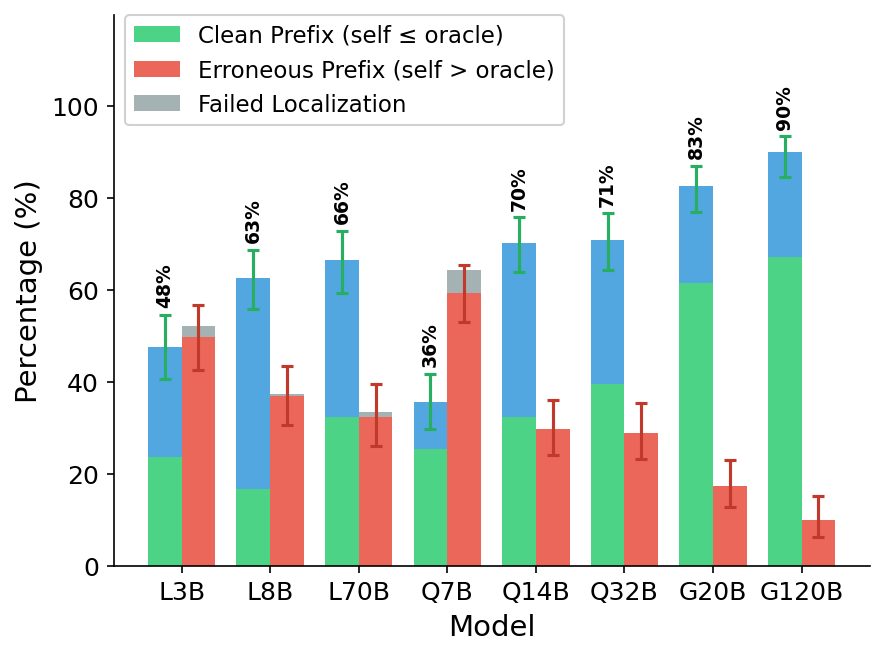
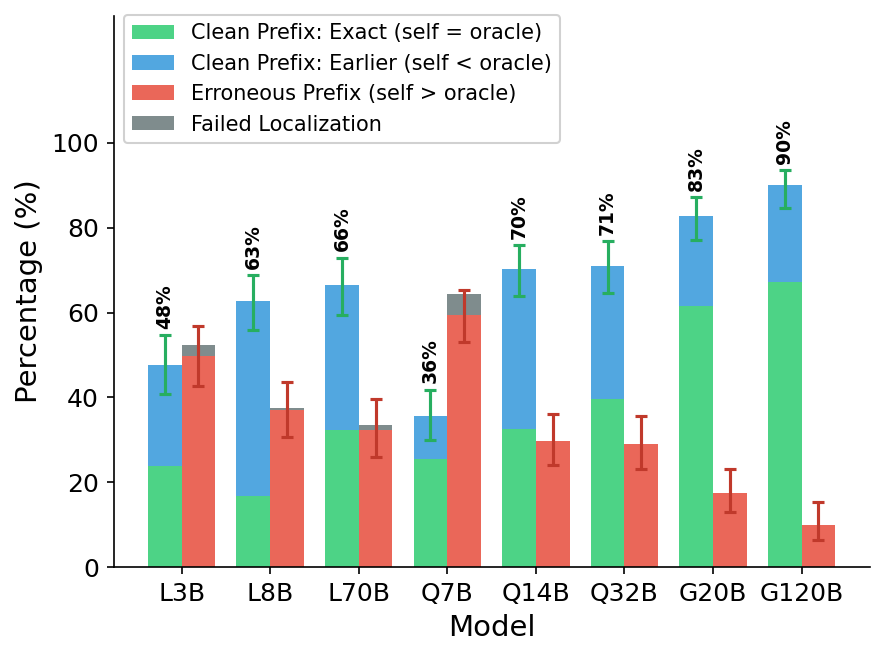
figures: self-localization legend labels exact and earlier separately

diff --git a/scripts/paper/make_figures.py b/scripts/paper/make_figures.py
@@ -173,8 +173,8 @@ def loc_fig(method, name):
     later = [S[m][0]["later"] for m in models]
     failed = [S[m][0]["failed"] for m in models]
     clean = [S[m][1] for m in models]
-    ax.bar(x - width / 2, exact, width, color=GREEN, alpha=0.85, label="Clean Prefix (self ≤ oracle)")
-    ax.bar(x - width / 2, earlier, width, bottom=exact, color=BLUE, alpha=0.85)
+    ax.bar(x - width / 2, exact, width, color=GREEN, alpha=0.85, label="Clean Prefix: Exact (self = oracle)")
+    ax.bar(x - width / 2, earlier, width, bottom=exact, color=BLUE, alpha=0.85, label="Clean Prefix: Earlier (self < oracle)")
     ax.bar(x + width / 2, later, width, color=RED, alpha=0.85, label="Erroneous Prefix (self > oracle)")
     if any(failed):
         ax.bar(x + width / 2, failed, width, bottom=later, color=GRAY, alpha=1.0, label="Failed Localization")
@@ -192,8 +192,8 @@ def loc_fig(method, name):
     ax.set_xticks(x)
     ax.set_xticklabels([SHORT[m] for m in models], fontsize=12)
     ax.tick_params(axis="y", labelsize=12)
-    ax.legend(loc="upper left", bbox_to_anchor=(0.0, 1.02), fontsize=11, ncol=1, framealpha=0.9)
-    ax.set_ylim(0, 120)
+    ax.legend(loc="upper left", bbox_to_anchor=(0.0, 1.02), fontsize=10, ncol=1, framealpha=0.9)
+    ax.set_ylim(0, 130)
     ax.set_yticks(range(0, 101, 20))
     ax.spines["top"].set_visible(False)
     ax.spines["right"].set_visible(False)
